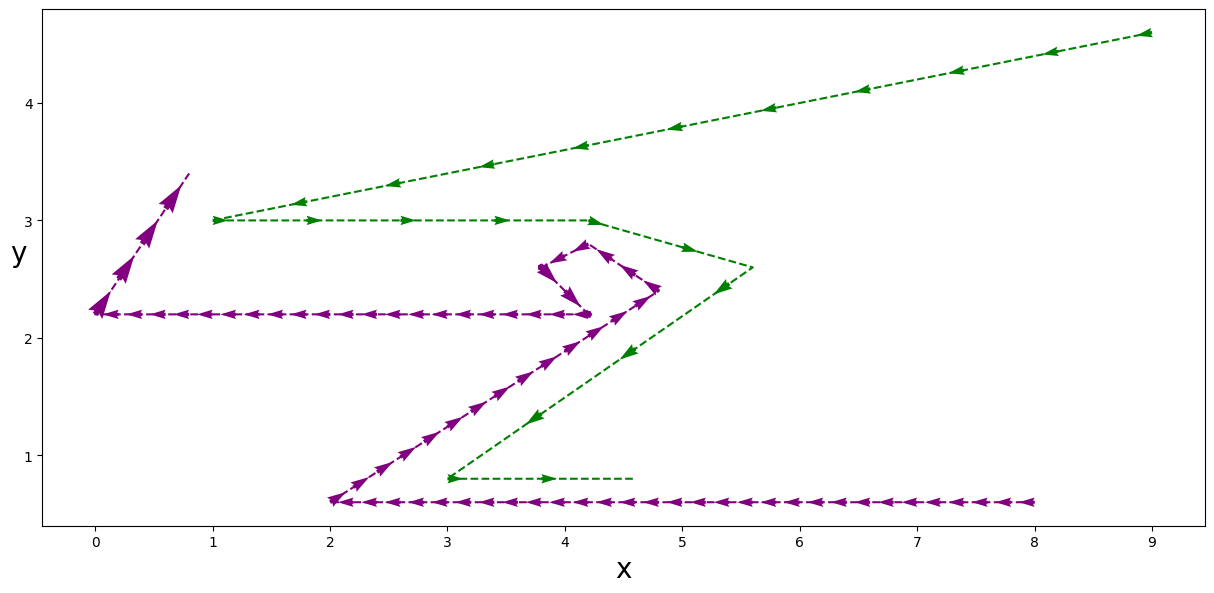
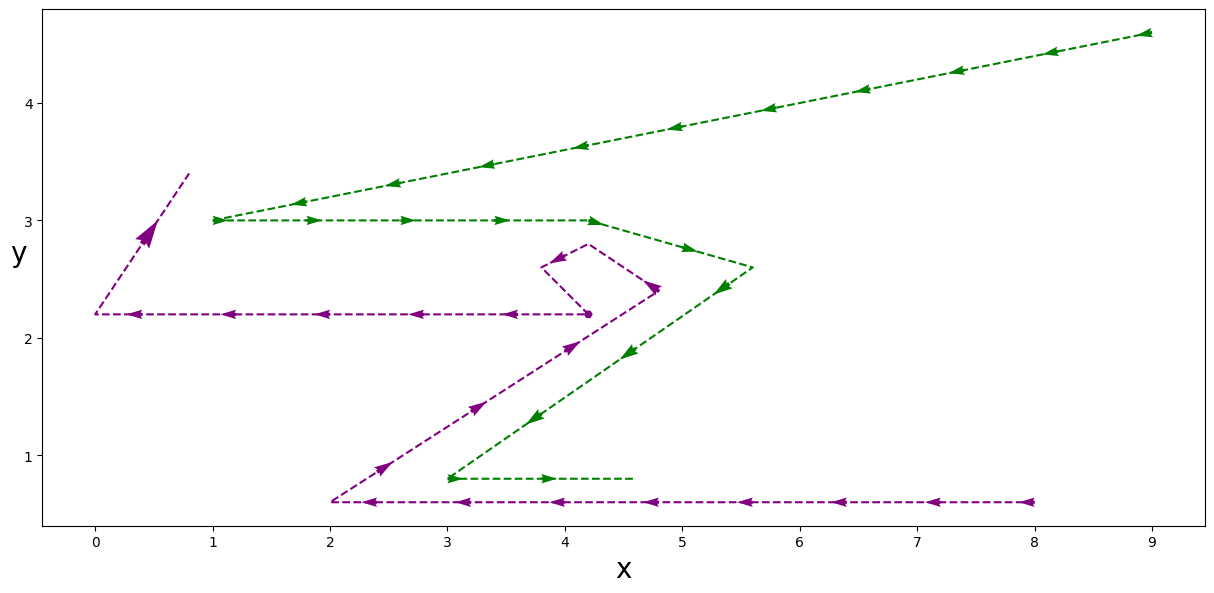
Fix path plot

diff --git a/db_interp.py b/db_interp.py
@@ -31,8 +31,7 @@ def draw_plot(prune_quiver_rate=4):
     plt.plot(v1_i_x, v1_i_y, linestyle="--", color=c1)
     plt.quiver(q1x, q1y, q1u, q1v, scale_units='xy', angles='xy', scale=1.5, color=c1)
     plt.plot(v2_i_x, v2_i_y, linestyle="--", color=c2)
-    plt.quiver(v2_i_x[:-1], v2_i_y[:-1], v2_i_x[1:]-v2_i_x[:-1], v2_i_y[1:]-v2_i_y[:-1],
-               scale_units='xy', angles='xy', scale=1.5, color=c2)
+    plt.quiver(q2x, q2y, q2u, q2v, scale_units='xy', angles='xy', scale=1.5, color=c2)
     #plt.grid(which="both", linestyle="--")
     return
 
